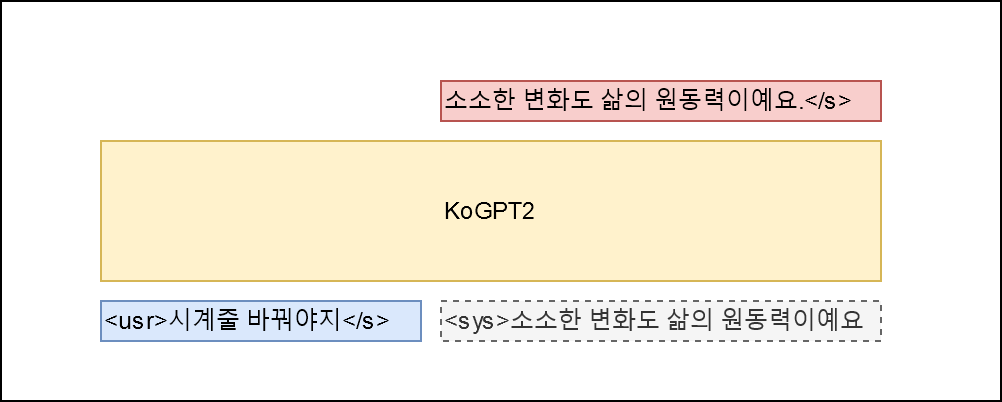
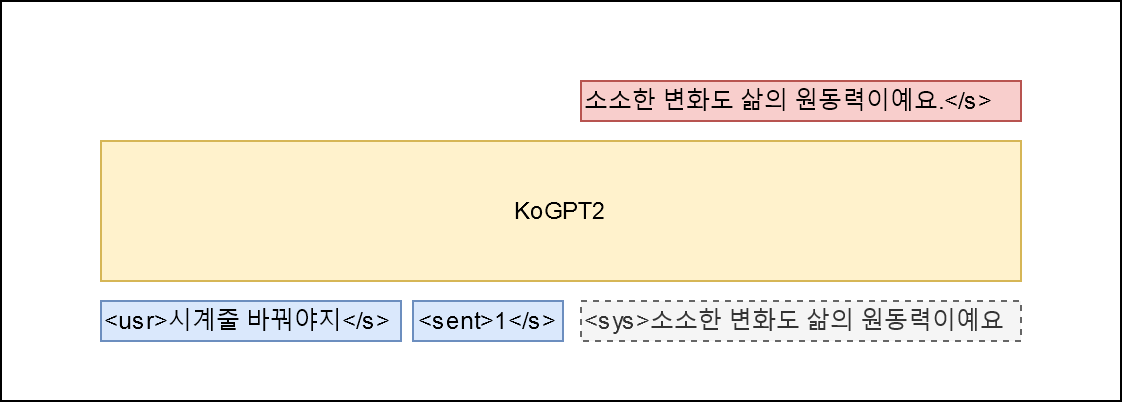
add emotional condition

diff --git a/train.py b/train.py
@@ -33,6 +33,12 @@ parser.add_argument('--chat',
                     default=False,
                     help='response generation on given user input')
 
+parser.add_argument('--sentiment',
+                    type=str,
+                    default='0',
+                    help='sentiment for system. 0 is neutral, 1 is negative, 2 is positive.')
+
+
 parser.add_argument('--model_params',
                     type=str,
                     default='kogpt2_chat.params',
@@ -43,11 +49,14 @@ parser.add_argument('--train',
                     default=False,
                     help='eval train set (default: False)')
 
-parser.add_argument('--accumulate',
-                    type=int,
-                    default=1,
-                    help='accumulate gradient to achieve the same result with a large batch size')
 
+
+parser.add_argument(
+    '--accumulate',
+    type=int,
+    default=1,
+    help=
+    'accumulate gradient to achieve the same result with a large batch size')
 
 opt = parser.parse_args()
 
@@ -59,6 +68,8 @@ S_TKN = '<sys>'
 BOS = '<s>'
 EOS = '</s>'
 MASK = '<unused0>'
+SENT = '<unused1>'
+
 
 class chat_data(gluon.data.Dataset):
     def __init__(self, chats, tok_path, vocab, max_len=32):
@@ -68,6 +79,7 @@ class chat_data(gluon.data.Dataset):
         self.first = True
         self.q_token = U_TKN
         self.a_token = S_TKN
+        self.sent_token = SENT
         self.bos = BOS
         self.eos = EOS
         self.maskt = MASK
@@ -88,9 +100,12 @@ class chat_data(gluon.data.Dataset):
         turn = self._data.iloc[idx]
         q = turn['Q']
         a = turn['A']
+        sentiment = str(turn['label'])
         q_toked = [
             self.q_token,
         ] + self.tokenizer(q) + [
+            self.eos,
+        ] + [self.sent_token] + self.tokenizer(sentiment) + [
             self.eos,
         ]
         q_len = len(q_toked)
@@ -122,10 +137,7 @@ class chat_data(gluon.data.Dataset):
 
 
 class KoGPT2Chat(nn.HybridBlock):
-    def __init__(self,
-                 kogpt2,
-                 prefix=None,
-                 params=None):
+    def __init__(self, kogpt2, prefix=None, params=None):
         super(KoGPT2Chat, self).__init__(prefix=prefix, params=params)
         self.kogpt2 = kogpt2
 
@@ -152,10 +164,10 @@ def train():
     train_set = chat_data(data, tok_path, vocab, max_len=max_len)
     batch_size = opt.batch_size
 
-    train_dataloader = mx.gluon.data.DataLoader(
-        train_set,
-        batch_size=batch_size,
-        num_workers=5, shuffle=True)
+    train_dataloader = mx.gluon.data.DataLoader(train_set,
+                                                batch_size=batch_size,
+                                                num_workers=5,
+                                                shuffle=True)
     kogptqa = KoGPT2Chat(model)
     kogptqa.hybridize()
 
@@ -165,10 +177,11 @@ def train():
 
     num_epochs = opt.num_epoch
     lr = 5e-5
-    trainer = gluon.Trainer(
-        kogptqa.collect_params(),
-        'bertadam',
-        {'learning_rate': lr, 'epsilon': 1e-8, 'wd':0.01})
+    trainer = gluon.Trainer(kogptqa.collect_params(), 'bertadam', {
+        'learning_rate': lr,
+        'epsilon': 1e-8,
+        'wd': 0.01
+    })
     # LayerNorm과 Bias에는 Weight Decay를 적용하지 않는다.
     for _, v in kogptqa.collect_params('.*beta|.*gamma|.*bias').items():
         v.wd_mult = 0.0
@@ -199,7 +212,8 @@ def train():
                 new_lr = lr * step_num / num_warmup_steps
             else:
                 non_warmup_steps = step_num - num_warmup_steps
-                offset = non_warmup_steps / (num_train_steps - num_warmup_steps)
+                offset = non_warmup_steps / (num_train_steps -
+                                             num_warmup_steps)
                 new_lr = lr - offset * lr
             trainer.set_learning_rate(new_lr)
             with mx.autograd.record():
@@ -210,10 +224,11 @@ def train():
                 # forward computation
                 out = kogptqa(token_ids)
                 masked_out = nd.where(
-                    mask.expand_dims(axis=2).repeat(repeats=out.shape[2], axis=2),
-                    out, neg * nd.ones_like(out))
+                    mask.expand_dims(axis=2).repeat(repeats=out.shape[2],
+                                                    axis=2), out,
+                    neg * nd.ones_like(out))
                 # loss for responses exincluding MASK and PAD
-                ls = loss_function(masked_out, label).sum()/mask.sum()
+                ls = loss_function(masked_out, label).sum() / mask.sum()
             # backward computation
             ls.backward()
             if not accumulate or (batch_id + 1) % accumulate == 0:
@@ -226,22 +241,23 @@ def train():
                     all_model_params.zero_grad()
             step_loss += ls.asscalar()
             if step_num % log_interval == 0 and step_num > 0:
-                print('[Epoch {} Batch {}/{}] loss={:.4f}, lr={:.10f}, train ppl={:.3f}'
-                      .format(epoch_id + 1, batch_id + 1, len(train_dataloader),
-                              step_loss / log_interval,
-                              trainer.learning_rate, math.exp(step_loss / log_interval))
-                )
+                print(
+                    '[Epoch {} Batch {}/{}] loss={:.4f}, lr={:.10f}, train ppl={:.3f}'
+                    .format(epoch_id + 1, batch_id + 1, len(train_dataloader),
+                            step_loss / log_interval, trainer.learning_rate,
+                            math.exp(step_loss / log_interval)))
                 step_loss = 0
     logging.info('saving model file to {}'.format(opt.model_params))
     kogptqa.save_parameters(opt.model_params)
 
 
-def chat(model_params):
+def chat(model_params, sent='0'):
     tok_path = get_tokenizer()
     model, vocab = get_mxnet_kogpt2_model(ctx=ctx)
     tok = SentencepieceTokenizer(tok_path, num_best=0, alpha=0)
     kogptqa = KoGPT2Chat(model)
     kogptqa.load_parameters(model_params, ctx=ctx)
+    sent_tokens = tok(sent)
     while 1:
         q = input('user > ').strip()
         if q == 'quit':
@@ -250,9 +266,15 @@ def chat(model_params):
         a = ''
         a_tok = []
         while 1:
-            input_ids = mx.nd.array([vocab[U_TKN]] + vocab[q_tok] + vocab[EOS, S_TKN] + vocab[a_tok]).expand_dims(axis=0)
+            input_ids = mx.nd.array([vocab[U_TKN]] + vocab[q_tok] +
+                                    vocab[EOS, SENT] + vocab[sent_tokens] + 
+                                    vocab[EOS, S_TKN] +
+                                    vocab[a_tok]).expand_dims(axis=0)
             pred = kogptqa(input_ids.as_in_context(ctx))
-            gen = vocab.to_tokens(mx.nd.argmax(pred, axis=-1).squeeze().astype('int').asnumpy().tolist())[-1]
+            gen = vocab.to_tokens(
+                mx.nd.argmax(
+                    pred,
+                    axis=-1).squeeze().astype('int').asnumpy().tolist())[-1]
             if gen == EOS:
                 break
             a += gen.replace('▁', ' ')
@@ -264,4 +286,4 @@ if __name__ == "__main__":
     if opt.train:
         train()
     if opt.chat:
-        chat(opt.model_params)
+        chat(opt.model_params, opt.sentiment)

diff --git a/README.md b/README.md
@@ -12,8 +12,7 @@
 <img src="imgs/simsimi.png" alt="drawing" style="width:600px;"/>
 
 
-- 데이터의 Q 필드를 `<usr>`발화 A 필드를 `<sys>`발화로 매핑하고 $P(<sys>|<usr>)$를 최대화 할 수 있는 모델을 학습한다.
-
+- 데이터의 Q 필드를 `<usr>`발화, A 필드를 `<sys>`발화 그리고 감정 레이블을 `<sent>`로 매핑해 `P(<sys>|<usr>, <sent>)`를 최대화 할 수 있는 모델을 학습한다. 감정 레이블은 [이곳](https://github.com/songys/Chatbot_data)의 정의를 따른다(일상다반사 0, 이별(부정) 1, 사랑(긍정) 2).
 
 ## Install
 
@@ -62,6 +61,6 @@ Simsimi > 비싸다고 해서 다 좋은 건 아니에요.
 
 ## TODO
 
+- ~~감정 정보를 조건으로 준 응답 생성~~
 - PyTorch 버전 작업, 다양한 generation 방식 테스트
-- 감정 정보를 조건으로 준 응답 생성
 
